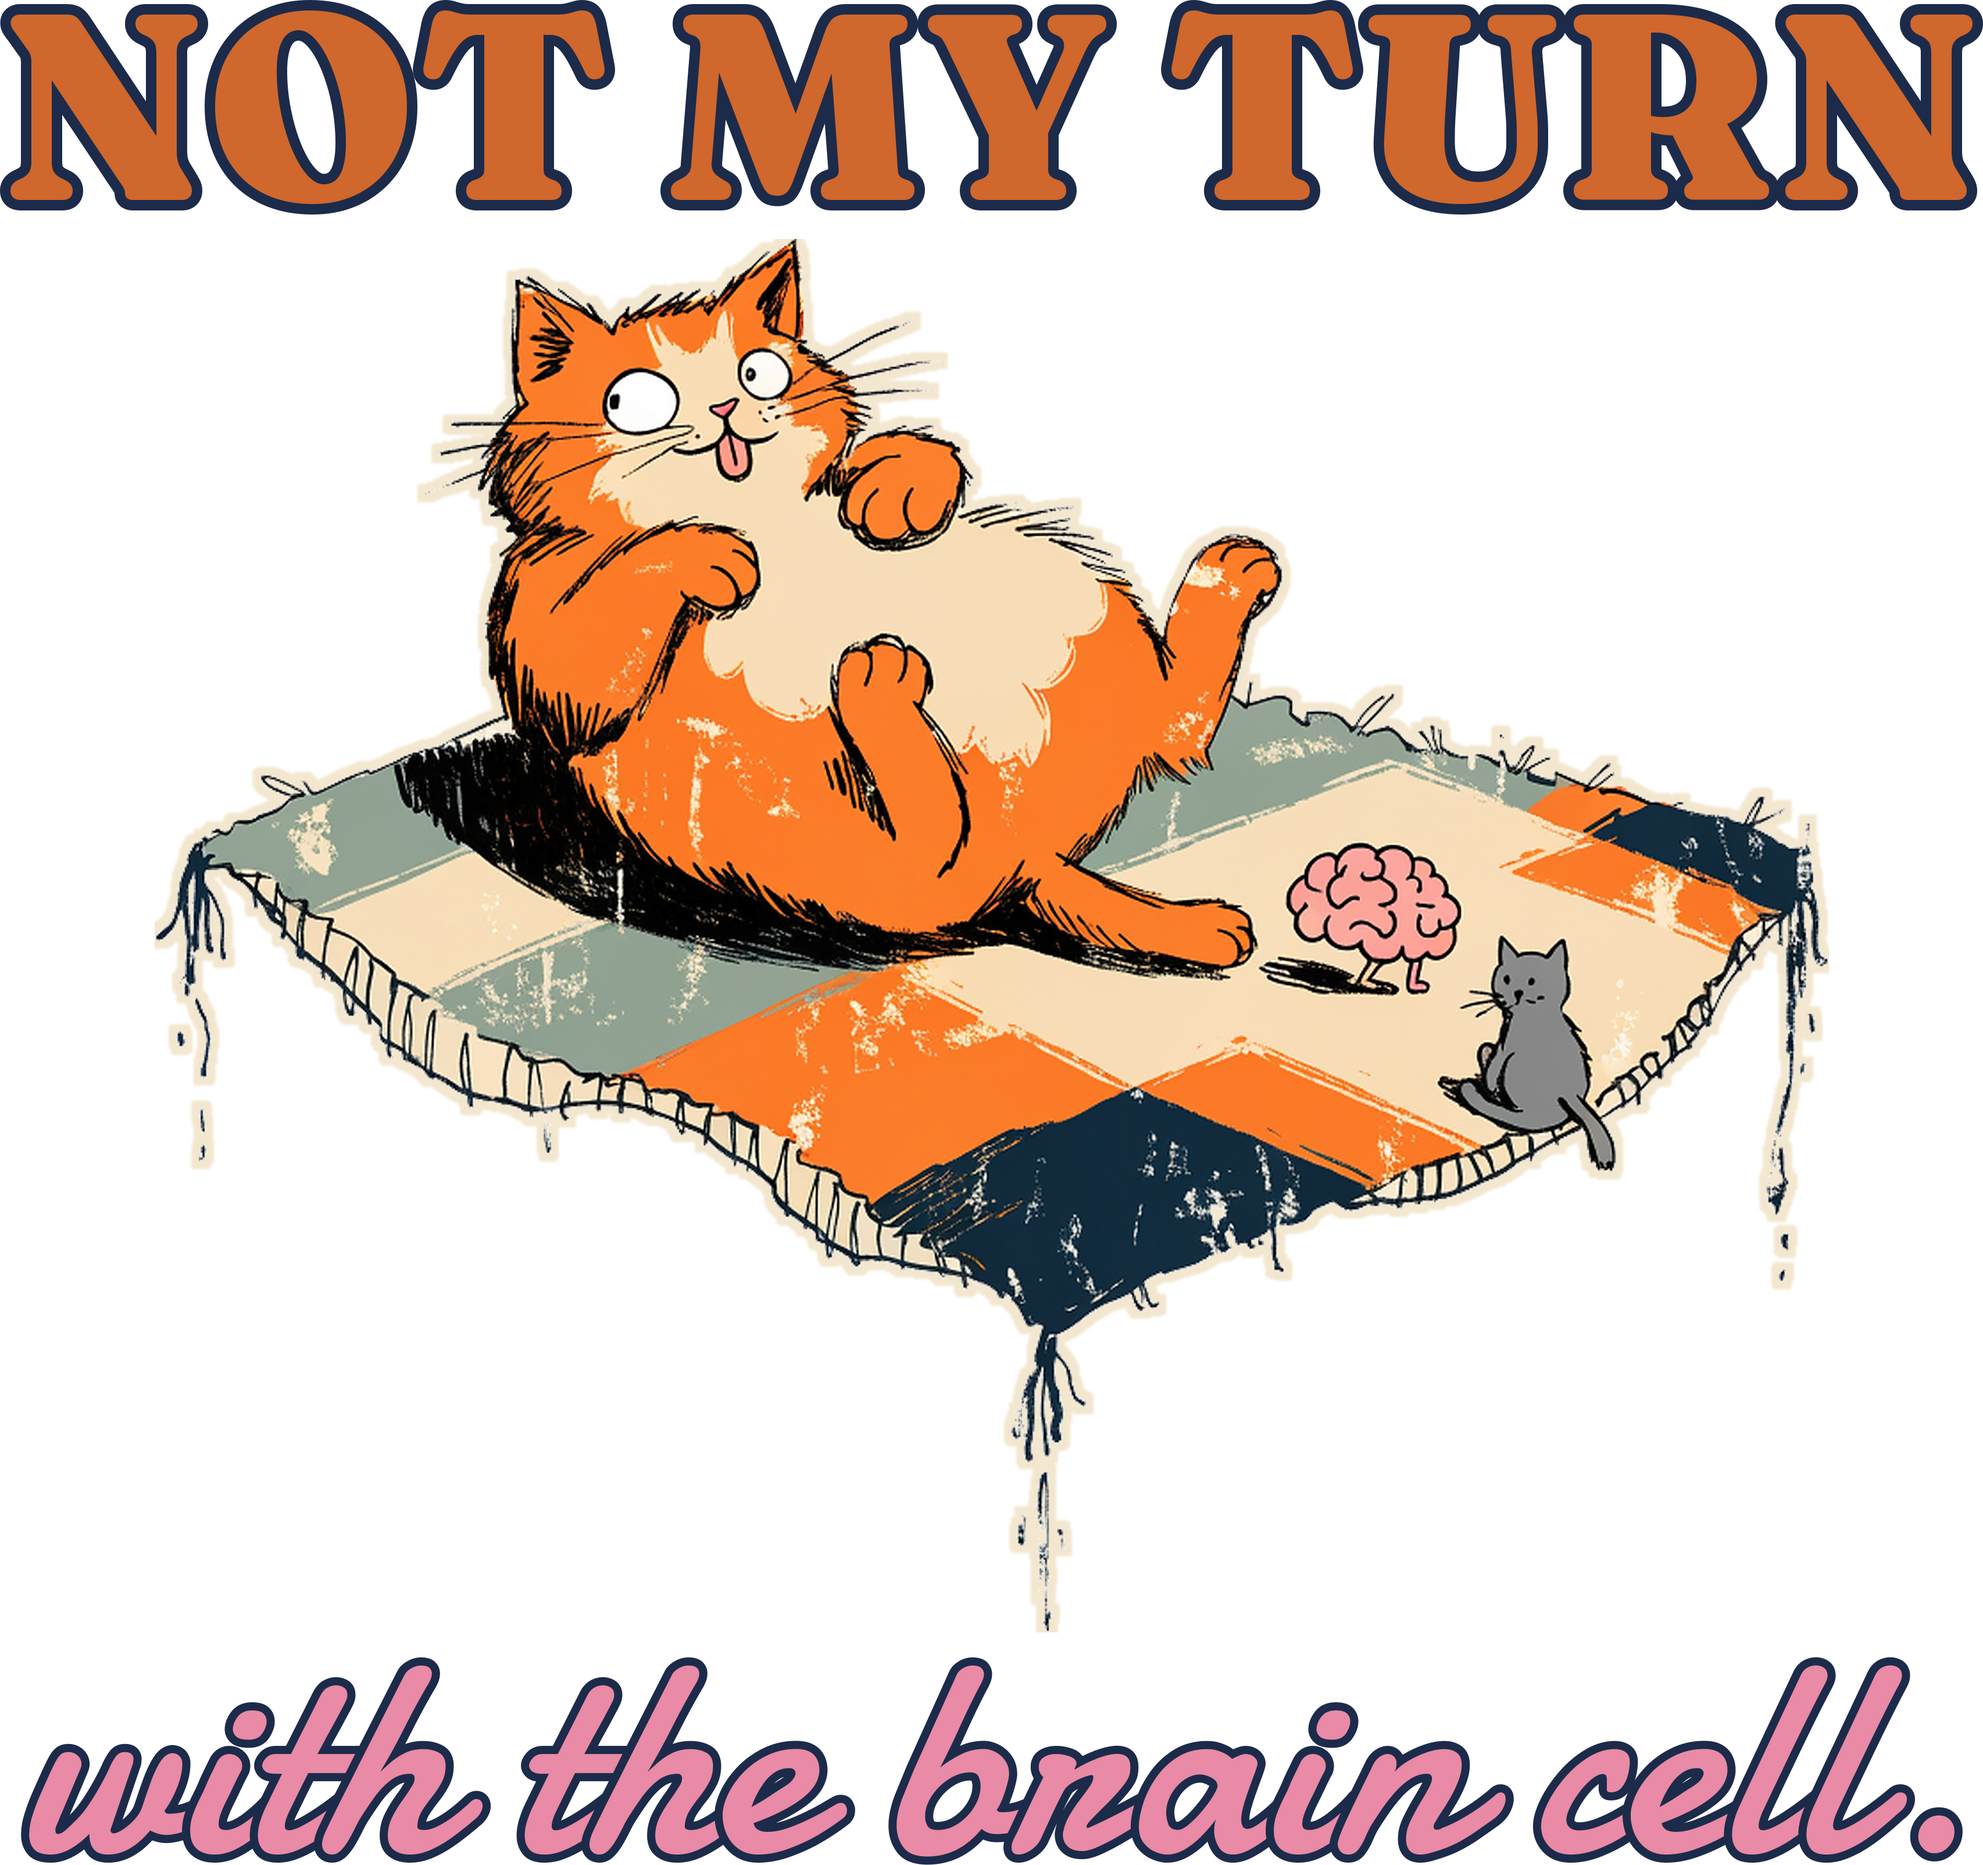
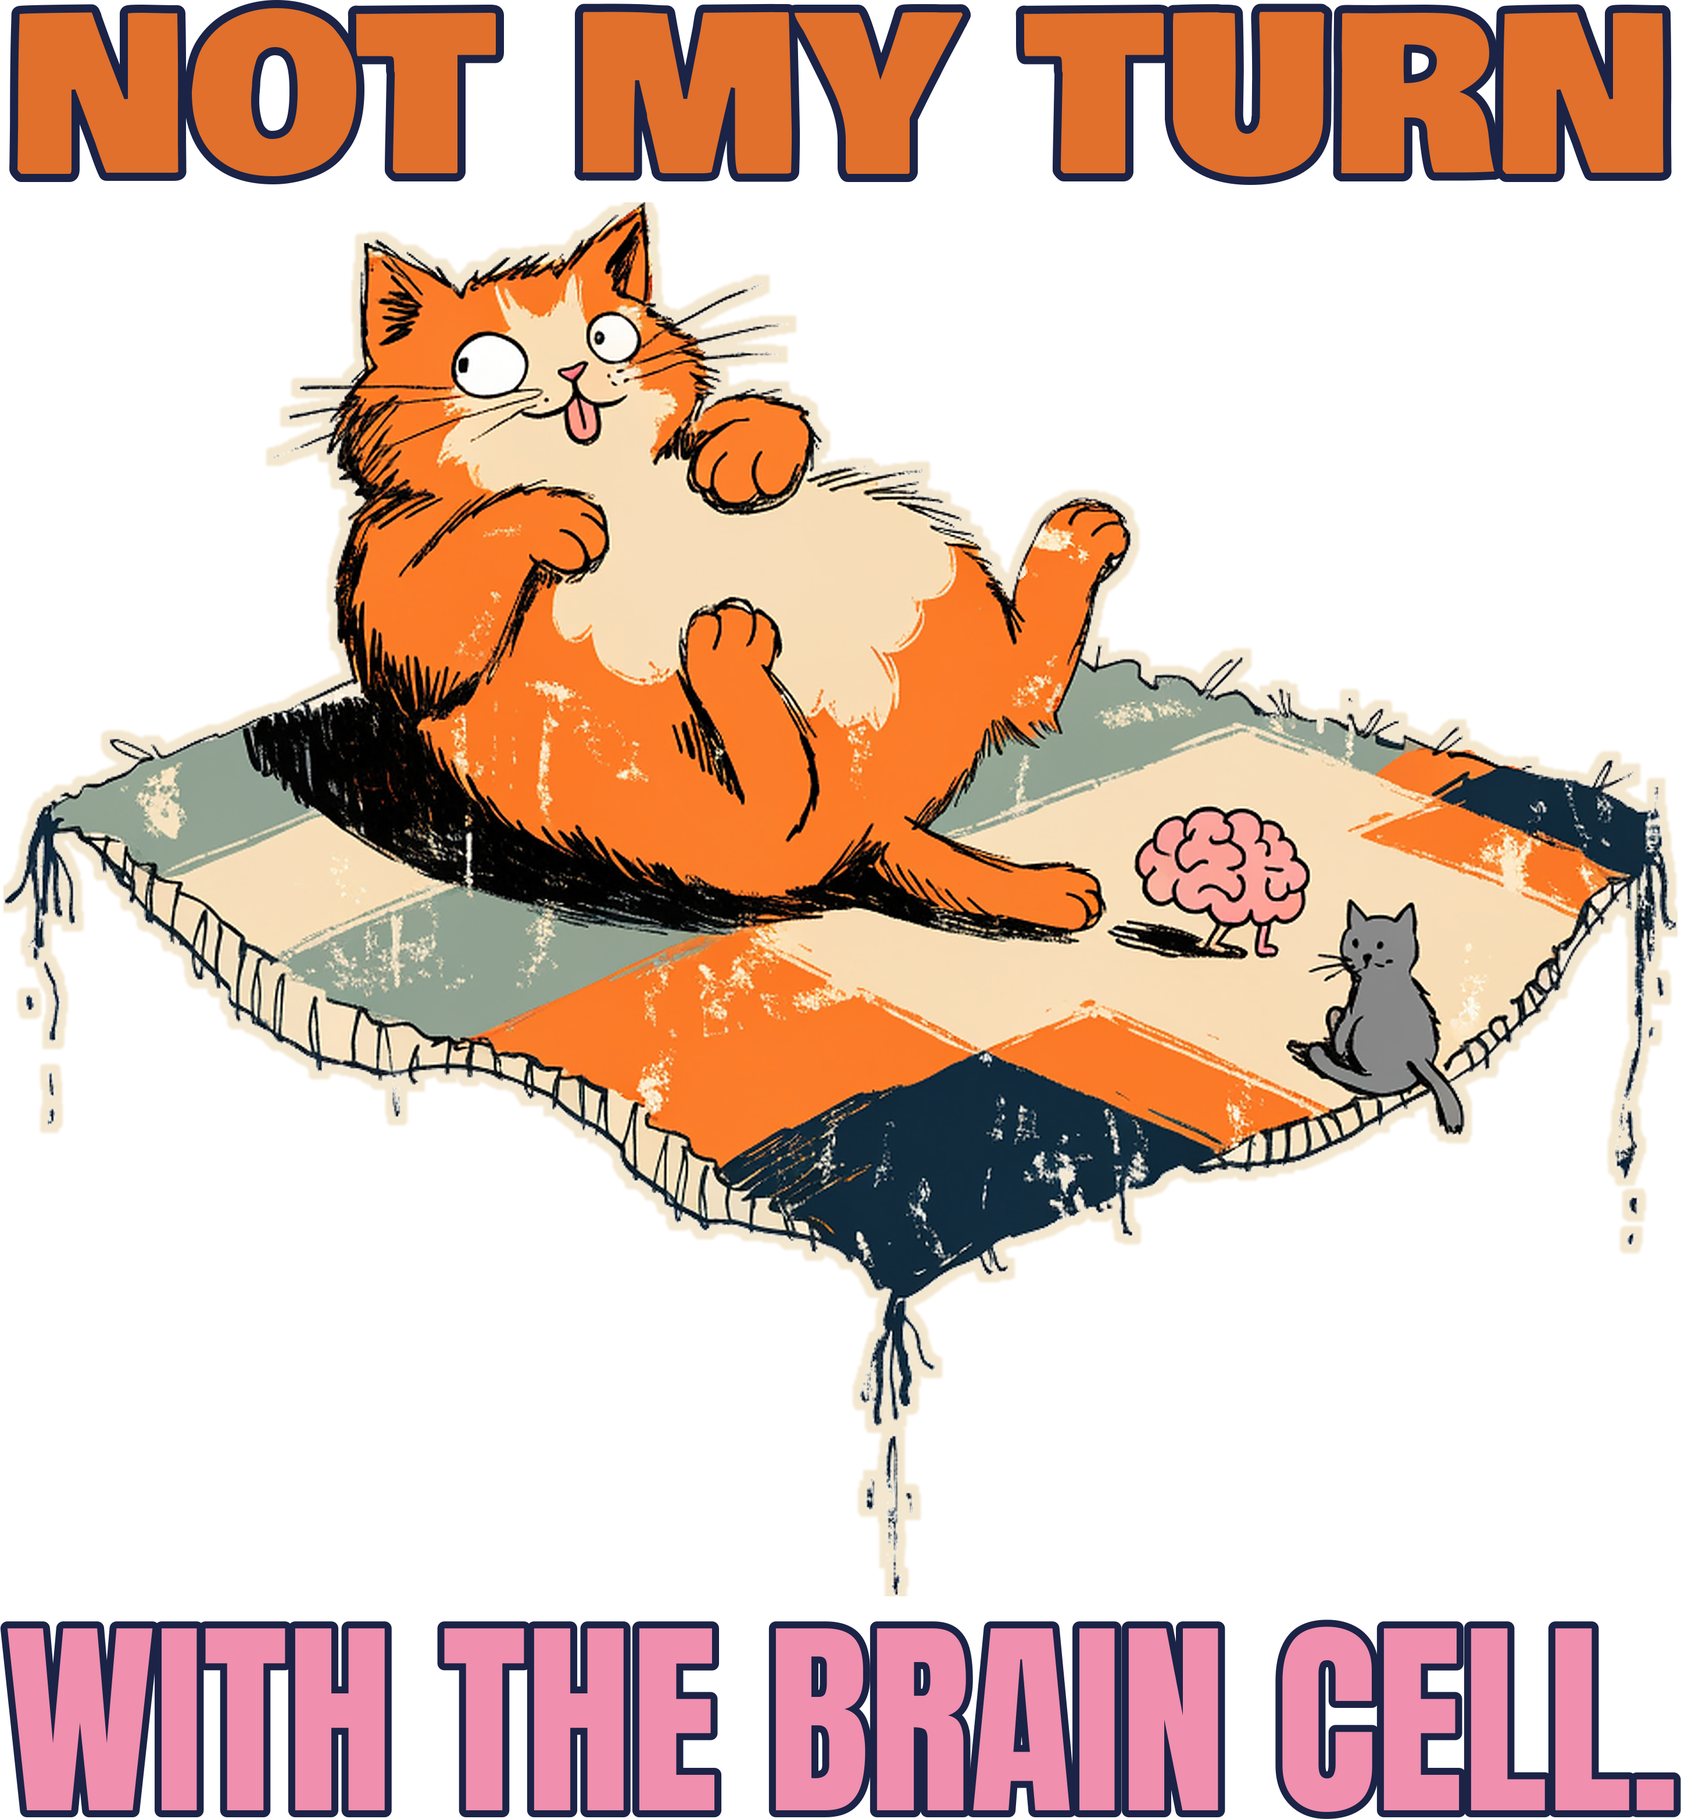
[E] review 558 Cat Not My Turn zip hoodie (type redo)

diff --git a/designs/e558/compose.py b/designs/e558/compose.py
@@ -1,0 +1,31 @@
+#!/usr/bin/env python3
+"""#558 type redo: Bowlby One orange NOT MY TURN + Anton pink WITH THE BRAIN CELL. at full art width, navy keylines (reads on Ash and Navy), same cat art."""
+import sys
+from PIL import Image, ImageDraw, ImageFont
+F = 'designs/fonts/'
+src = Image.open('docs/print-files/558-brain-cell-back.png').convert('RGBA')
+art = src.crop((0, 400, src.width, 2825)); art = art.crop(art.getbbox()); art.save('designs/e558/art.png')
+W = art.width
+def line(text, font, fill, stroke, sfill, width):
+    size = 80
+    while True:
+        f = ImageFont.truetype(F + font, size)
+        bb = f.getbbox(text, stroke_width=stroke)
+        if bb[2] - bb[0] >= width or size > 2000:
+            break
+        size += 4
+    im = Image.new('RGBA', (bb[2] - bb[0] + 20, bb[3] - bb[1] + 20), (0, 0, 0, 0))
+    ImageDraw.Draw(im).text((10 - bb[0], 10 - bb[1]), text, font=f, fill=fill, stroke_width=stroke, stroke_fill=sfill)
+    return im.crop(im.getbbox())
+ORANGE, PINK, NAVY = '#e0702c', '#f08fae', '#1b2347'
+l1 = line('NOT MY TURN', 'BowlbyOne-Regular.ttf', ORANGE, 14, NAVY, W)
+l2 = line('WITH THE BRAIN CELL.', 'Anton-Regular.ttf', PINK, 12, NAVY, W)
+gaps = [30, 40]
+stack = [l1, art, l2]
+H = sum(i.height for i in stack) + sum(gaps)
+out = Image.new('RGBA', (max(i.width for i in stack), H), (0, 0, 0, 0))
+y = 0
+for k, i in enumerate(stack):
+    out.alpha_composite(i, ((out.width - i.width) // 2, y)); y += i.height + (gaps[k] if k < 2 else 0)
+out.save(sys.argv[1], dpi=(300, 300))
+print(out.size, [i.size for i in stack], 'ratio', out.height / out.width, 'l2/l1 height', l2.height / l1.height)

diff --git a/docs/pipeline/558-cat-zip-hoodie-not-my-turn-with-the-brain-cell.md b/docs/pipeline/558-cat-zip-hoodie-not-my-turn-with-the-brain-cell.md
@@ -1,4 +1,4 @@
-status: BUILDING [E] 2026-10-19 21:14
+status: REVIEW
 lane: E
 type: new
 id: 558
@@ -32,3 +32,4 @@ kd: 31
 - 2026-10-18 08:12 UTC builder [E]: sync 12/12 confirmed. REVIEW.
 - 2026-10-18 08:19 UTC director: LIVE. Sheet reviewed (R3, R4/R5, R6, R8, R13.3); copy OK. ACTIVE + Online Store, Headless, Google & YouTube; cohesion-audit --handle PASS 0 warn.
 - 2026-10-18 17:22 UTC director: QUALITY RESET grade B (type only), REDO. The product stays ACTIVE (same handle, URL, title keyword). Keep the line "NOT MY TURN / with the brain cell." and the art. 1. Type: Thin pink script second line on navy hoodie; plain bar headline over art. 2. Quality reset type bar (docs/backlog/quality-reset.md, 'The new bar'): headline at least 90% of the art width, heavy, colors pulled from the art; second line at least 45% of the headline's height, never a thin script on a dark or mid garment; use the lettering as a shape (arch, stacked lockup, words breaking into the art), not a plain bar above and a script line below; no font used on more than 1 in 6 of the last 30 designs. 3. New print file means a new cover per R6.10 and a fresh review sheet (R7.7). While quality-reset.md says PAUSED, only lane A builds, and only the samples step 2 names.
+- 2026-10-19 21:23 UTC builder [E]: REDO type-only done. Same cat art (old text bars cropped off), new lockup designs/e558/compose.py: NOT MY TURN Bowlby One orange + WITH THE BRAIN CELL. Anton pink, both full art width (line 2 = 108% of headline height), navy keylines, reads on Ash and Navy (checked both). Print 2892x3128, Printful file 1089900083, back BW 1650 BT 225, chest copy unchanged (file 1088727479), resynced 12/12 verified. 4 mockups replaced in place in Shopify, Story updated (no ink FAQ). Cover: plain product shot (handle added to retired-covers.json). fal $0. Sheet docs/review/558.jpg.

diff --git a/docs/intake-log.md b/docs/intake-log.md
@@ -1,4 +1,5 @@
 RUNNING lane E since 2026-10-19 21:14 UTC
+2026-10-19 21:23 UTC — [E] Builder run: redid #558 Women's Cat Not My Turn zip hoodie (type only: Bowlby One orange + Anton pink full art width, same art, back BW 1650, file 1089900083, 12/12 resynced, 4 mockups replaced in place, copy updated, plain product shot). REVIEW. fal $0.
 RUNNING director since 2026-10-19 21:11 UTC
 2026-10-19 21:12 UTC — [B] Builder run: redid #544 Men's Gym Rack Your Weights tee (type only, port of #625: Bevan stacked headline + heavy gold italic, same art, FW 1650 TOP 75, file 1089881607, 35/35 relinked, 5 fronts replaced in place, copy updated, plain product shot). REVIEW. fal $0. 1 redo per run cap reached. Lock released.
 
